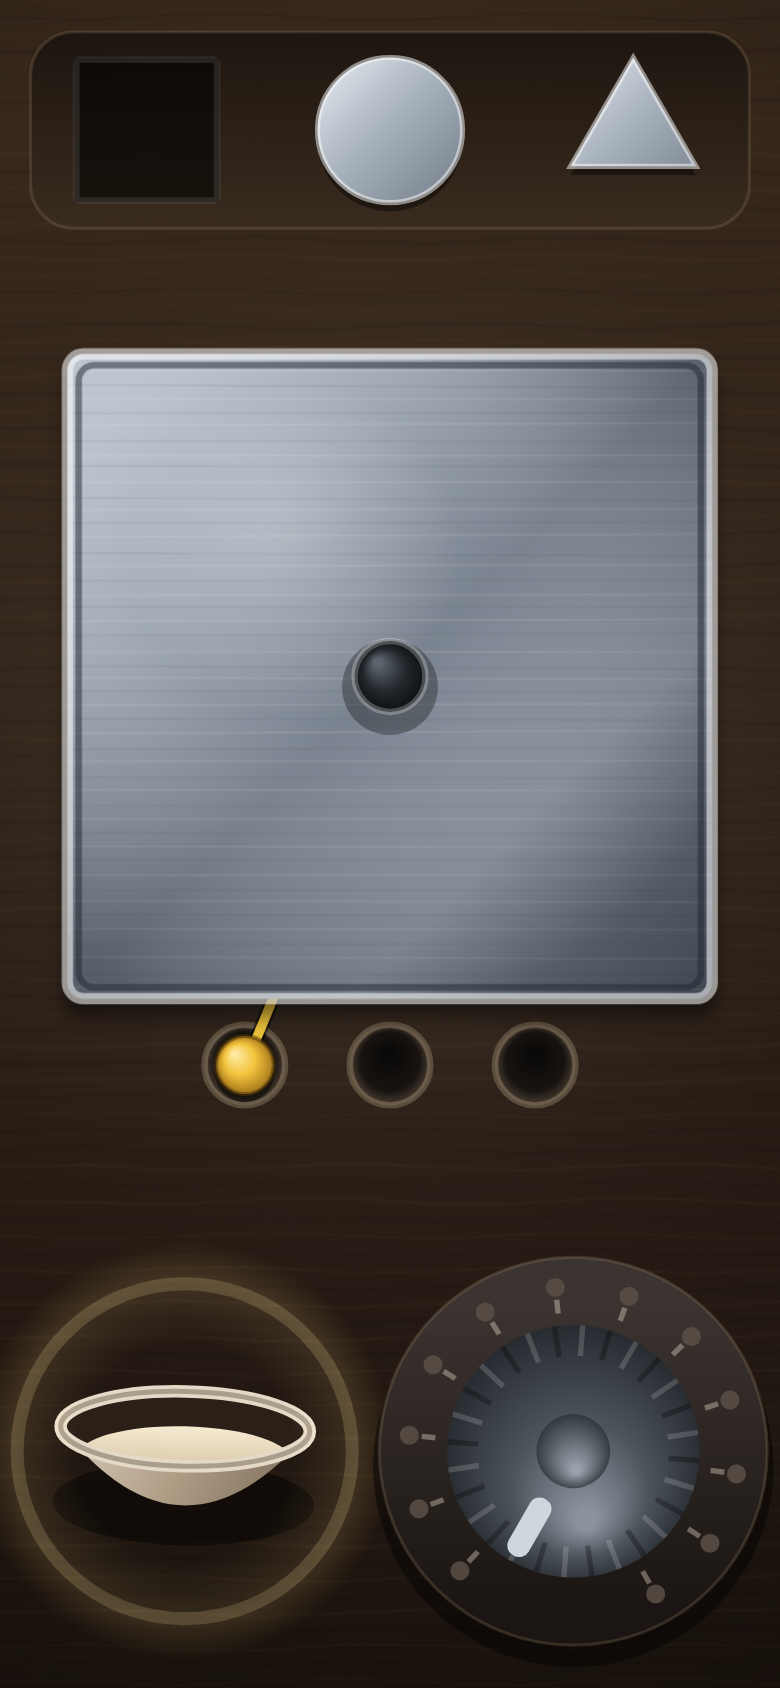
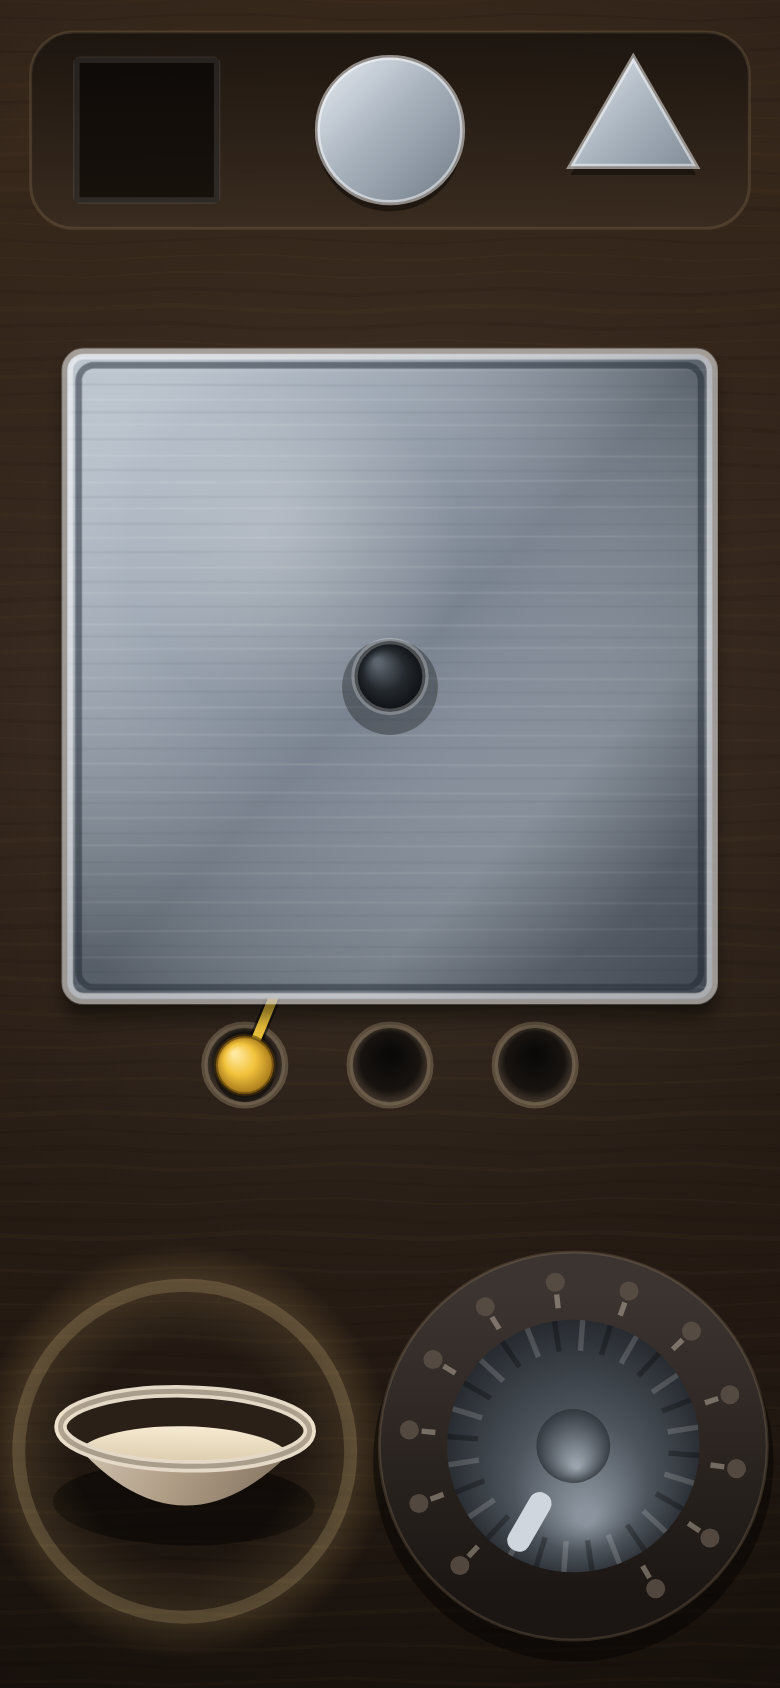
レビュー指摘の修正: ボウルタップで砂が板へ飛ぶ、模様の鮮明化、粒サイズ調整
- js/flight.js: ボウルから板へ弧を描いて飛ぶ砂（タップで約60粒、長押しで降り続ける）
- field.js: |f| をべき圧縮して節線付近の引き込みを強化
- sand.js: ジッターを振幅の2乗比例にし、収束後の線をくっきりさせる
- render.js: 砂粒を DPR2 で約3物理px に縮小、きらめきの拡大率を抑制
- layout.js: 縦画面でノブ台座が画面下端に収まるよう調整
- README とスクリーンショットを更新

Claude-Session: https://claude.ai/code/session_012XiszYiZWGqsTZ21VshgbC

diff --git a/js/flight.js b/js/flight.js
@@ -1,0 +1,66 @@
+// ボウルから板へ飛んでいく砂（スクリーン座標）。
+// 指がボウルの上（＝板の外）にあるときでも、砂がちゃんと板に届くようにするための演出兼ロジック。
+// 着地した瞬間に板ローカル座標の粒へ変換して pour する。
+
+import { state } from './state.js';
+import { pour, sand } from './sand.js';
+import { insideMask } from './field.js';
+import { TAU } from './util.js';
+
+const MAX_FLIGHT = 420;
+const SPREAD = 0.75;   // 板全体にちらばるように落とす（板ローカル単位）
+
+/** 板の上のランダムな着地点（板ローカル）を選ぶ */
+function pickTarget(kind) {
+  for (let i = 0; i < 6; i++) {
+    const a = Math.random() * TAU;
+    const r = Math.sqrt(Math.random()) * SPREAD;
+    const u = Math.cos(a) * r;
+    const v = Math.sin(a) * r + (kind === 'triangle' ? 0.05 : 0);
+    if (insideMask(kind, u, v)) return [u, v];
+  }
+  return [0, kind === 'triangle' ? 0.05 : 0];
+}
+
+/** ボウル（指の位置）から板へ砂を飛ばす */
+export function spawnFlight(kind, sx, sy, count) {
+  let added = 0;
+  for (let i = 0; i < count; i++) {
+    if (state.flight.length >= MAX_FLIGHT) break;
+    if (sand.n + state.flight.length >= sand.max) break;
+    const t = pickTarget(kind);
+    state.flight.push({
+      x0: sx + (Math.random() - 0.5) * 14,
+      y0: sy + (Math.random() - 0.5) * 10,
+      tu: t[0], tv: t[1],
+      t: 0,
+      dur: 21 + Math.random() * 9,   // 0.35〜0.5秒（フレーム単位）
+      arc: 0.18 + Math.random() * 0.14,
+      x: sx, y: sy,
+    });
+    added++;
+  }
+  return added;
+}
+
+/** 飛翔中の砂を進め、着地したら板の上の粒にする */
+export function updateFlight(L, dt, kind) {
+  const f = state.flight;
+  if (!f.length || !L) return;
+  const p = L.plate;
+  for (let i = f.length - 1; i >= 0; i--) {
+    const g = f[i];
+    g.t += dt;
+    const k = g.t / g.dur;
+    const tx = p.cx + g.tu * p.r;
+    const ty = p.cy + g.tv * p.r;
+    if (k >= 1) {
+      pour(kind, g.tu, g.tv, 1, 0.03);
+      f.splice(i, 1);
+      continue;
+    }
+    const d = Math.abs(tx - g.x0) + Math.abs(ty - g.y0);
+    g.x = g.x0 + (tx - g.x0) * k;
+    g.y = g.y0 + (ty - g.y0) * k - Math.sin(k * Math.PI) * d * g.arc;
+  }
+}

diff --git a/js/render.js b/js/render.js
@@ -496,11 +496,17 @@ function drawDriver(ctx, L, dx, dy) {
   ctx.restore();
 }
 
-function drawSand(ctx, L, ox, oy) {
+/** 砂粒の一辺（CSSpx）。DPR2 でおよそ 2.2〜3.6 物理px になるようにする */
+function grainSize(R, dpr) {
+  const d = dpr || 1;
+  return Math.max(2.2, Math.min(3.6, R * d * 0.0145)) / d;
+}
+
+function drawSand(ctx, L, ox, oy, dpr) {
   const p = L.plate;
   const R = p.r;
   const cx = p.cx + ox, cy = p.cy + oy;
-  const s = Math.max(1.8, Math.min(3.4, R * 0.020));
+  const s = grainSize(R, dpr);
   const n = sand.n;
   const u = sand.u, v = sand.v, st = sand.st, life = sand.life;
 
@@ -515,7 +521,7 @@ function drawSand(ctx, L, ox, oy) {
   ctx.fillStyle = '#ffffff';
   for (let i = 0; i < n; i++) {
     if (st[i] !== 0 || life[i] <= 0.35) continue;
-    const ss = s * (1 + life[i] * 0.7);
+    const ss = s * (1 + life[i] * 0.28);
     ctx.fillRect(cx + u[i] * R - ss * 0.5, cy + v[i] * R - ss * 0.5, ss, ss);
   }
 
@@ -526,7 +532,7 @@ function drawSand(ctx, L, ox, oy) {
     const phase = (state.time * 0.04) | 0;
     for (let i = phase % 6; i < n; i += 6) {
       if (st[i] !== 0) continue;
-      const ss = s * 1.6;
+      const ss = s * 1.25;
       ctx.fillRect(cx + u[i] * R - ss * 0.5, cy + v[i] * R - ss * 0.5, ss, ss);
     }
     ctx.globalAlpha = 1;
@@ -599,7 +605,7 @@ function drawPlateArea(ctx, L, dpr) {
   drawDriver(ctx, L, dx, dy);
 
   // 砂
-  drawSand(ctx, L, ox + sx, oy + sy);
+  drawSand(ctx, L, ox + sx, oy + sy, dpr);
 
   // 完成の光
   if (state.glow > 0.01) {
@@ -625,6 +631,17 @@ function drawPlateArea(ctx, L, dpr) {
   }
 }
 
+/** ボウルから板へ飛んでいる砂 */
+function drawFlight(ctx, L, dpr) {
+  const f = state.flight;
+  if (!f.length) return;
+  const s = grainSize(L.plate.r, dpr);
+  ctx.fillStyle = '#f2e6cc';
+  for (let i = 0; i < f.length; i++) {
+    ctx.fillRect(f[i].x - s * 0.5, f[i].y - s * 0.5, s, s);
+  }
+}
+
 export function render(ctx, L, dpr) {
   ctx.clearRect(0, 0, L.w, L.h);
   const bench = makeBench(L.w, L.h, dpr);
@@ -635,5 +652,6 @@ export function render(ctx, L, dpr) {
   drawSockets(ctx, L);
   drawPlateArea(ctx, L, dpr);
   drawBowl(ctx, L);
+  drawFlight(ctx, L, dpr);
   drawKnob(ctx, L);
 }

diff --git a/js/input.js b/js/input.js
@@ -2,7 +2,8 @@
 
 import { state } from './state.js';
 import { sand, pour, scatter, scatterAll, spill, clipToPlate } from './sand.js';
-import { MODE_COUNT, modeFromKnob } from './field.js';
+import { MODE_COUNT, modeFromKnob, insideMask } from './field.js';
+import { spawnFlight } from './flight.js';
 import { KNOB_SWEEP } from './render.js';
 import { clamp, angleDelta, dist2, TAU } from './util.js';
 import { ensureAudio, tick, pourSound } from './audio.js';
@@ -182,19 +183,31 @@ function onUp(e) {
   touched();
 }
 
-/** 毎フレーム呼ぶ: 指の位置から砂を降らせ続ける */
+/**
+ * 毎フレーム呼ぶ: 砂を降らせ続ける（毎秒およそ150粒）。
+ * 指が板の上にあれば指の位置へ、板の外（ボウルの上など）なら板へ向かって砂が飛ぶ。
+ */
 export function tickPour(L, dt) {
   if (!input.pouring || !L) return;
   const loc = toLocal(L, input.px, input.py);
-  const n = Math.max(1, Math.round(4.5 * dt));
-  const added = pour(state.plate, loc.u, loc.v, n, 0.10);
+  const n = Math.max(1, Math.round(2.5 * dt));
+  let added;
+  if (insideMask(state.plate, loc.u, loc.v)) {
+    added = pour(state.plate, loc.u, loc.v, n, 0.10);
+  } else {
+    added = spawnFlight(state.plate, input.px, input.py, n);
+  }
   if (added > 0) pourSound();
 }
 
-/** pointerdown 直後のひとまとまりの砂 */
+/** pointerdown 直後のひとまとまりの砂（板の上に約60粒） */
 export function pourBurst(L) {
   const loc = toLocal(L, input.px, input.py);
-  pour(state.plate, loc.u, loc.v, 40, 0.13);
+  if (insideMask(state.plate, loc.u, loc.v)) {
+    pour(state.plate, loc.u, loc.v, 60, 0.14);
+  } else {
+    spawnFlight(state.plate, input.px, input.py, 60);
+  }
   pourSound();
 }
 

diff --git a/js/sand.js b/js/sand.js
@@ -4,8 +4,8 @@
 import { sampleField, insideMask } from './field.js';
 import { clamp, TAU } from './util.js';
 
-const ATTR = 2.6e-5;   // 節線への引き込み（勾配降下）の強さ
-const JIT = 0.0085;    // 振幅に比例するランダム跳ね
+const ATTR = 5.0e-5;   // 節線への引き込み（勾配降下）の強さ
+const JIT = 0.016;     // ランダム跳ね（振幅の2乗に比例＝節線の上ではほとんど跳ねない）
 const DAMP = 0.86;     // 速度減衰（1フレームあたり）
 const GRAV = 0.0026;   // こぼれ落ちる砂の加速度
 
@@ -166,7 +166,7 @@ export function updateSand(dt, vib, kind, shock) {
     let nu = u + vu * dt;
     let nv = v + vv * dt;
     if (vib > 0) {
-      const j = JIT * s.a * vib * (1 + shock * 4) * dt;
+      const j = JIT * s.a * s.a * vib * (1 + shock * 4) * dt;
       nu += (Math.random() - 0.5) * j;
       nv += (Math.random() - 0.5) * j;
       if (shock > 0.01) {

diff --git a/js/field.js b/js/field.js
@@ -171,10 +171,12 @@ export function rebuildField(kind, knob, socket) {
     }
   }
 
+  // |f| をそのまま使うと節線のまわりが平坦で砂が帯状に散らばるため、
+  // べき圧縮して節線付近の勾配を強くする（模様がくっきり出る）。
   const inv = 1 / maxAbs;
   const amp = field.amp;
   for (let idx = 0; idx < N * N; idx++) {
-    amp[idx] = _in[idx] ? Math.min(1, Math.abs(_raw[idx]) * inv) : 1.25;
+    amp[idx] = _in[idx] ? Math.pow(Math.min(1, Math.abs(_raw[idx]) * inv), 0.6) : 1.25;
   }
 
   // 勾配（中心差分）

diff --git a/js/main.js b/js/main.js
@@ -7,6 +7,7 @@ import { initSand, resizeSand, updateSand, sand } from './sand.js';
 import { rebuildField, modeFromKnob, MODE_COUNT } from './field.js';
 import { render } from './render.js';
 import { installInput, tickPour } from './input.js';
+import { updateFlight } from './flight.js';
 import { setDrone, chime } from './audio.js';
 
 const canvas = document.getElementById('stage');
@@ -108,6 +109,7 @@ function update(dt) {
 
   // 砂
   tickPour(L, dt);
+  updateFlight(L, dt, state.plate);
   updateSand(dt, state.vib, state.plate, state.shock);
 
   // 収束判定

diff --git a/js/layout.js b/js/layout.js
@@ -76,7 +76,7 @@ export function computeLayout(w, h, insets) {
     const knobR = clamp(Math.min(availW * 0.21, bottomH * 0.38), 34, 96);
     L.knob.cx = right - knobR - clamp(availW * 0.04, 4, 22);
     // 台座（半径の1.3倍）が画面下に出ないように寄せる
-    L.knob.cy = Math.min(by, bottom - knobR * 1.32);
+    L.knob.cy = Math.min(by, bottom - knobR * 1.42);
     L.knob.r = knobR;
     L.knob.hit = knobR * 1.3;
 

diff --git a/js/state.js b/js/state.js
@@ -18,6 +18,7 @@ export const state = {
   socketPulse: [0, 0, 0],
   knobPulse: 0,
 
+  flight: [],             // ボウルから板へ飛んでいる砂（スクリーン座標）
   ripples: [],
   rippleTimer: 0,
 
